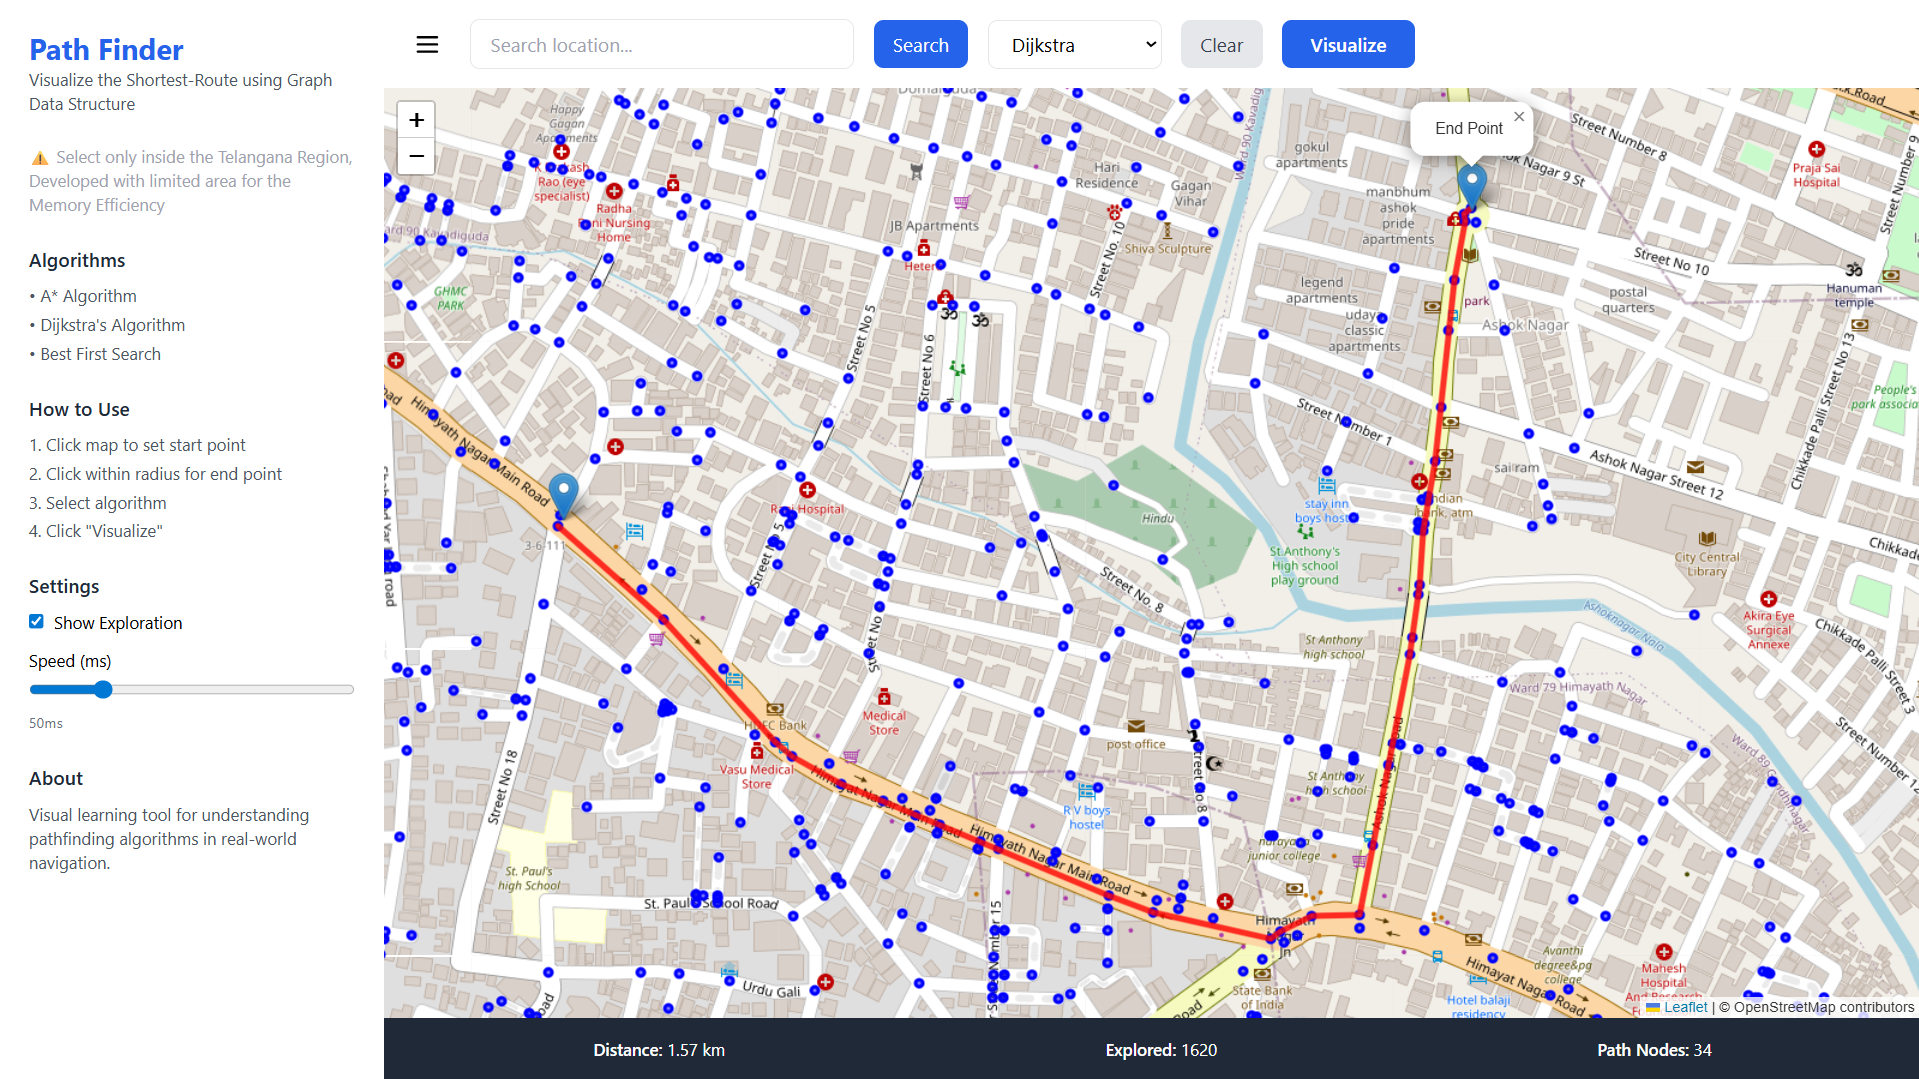
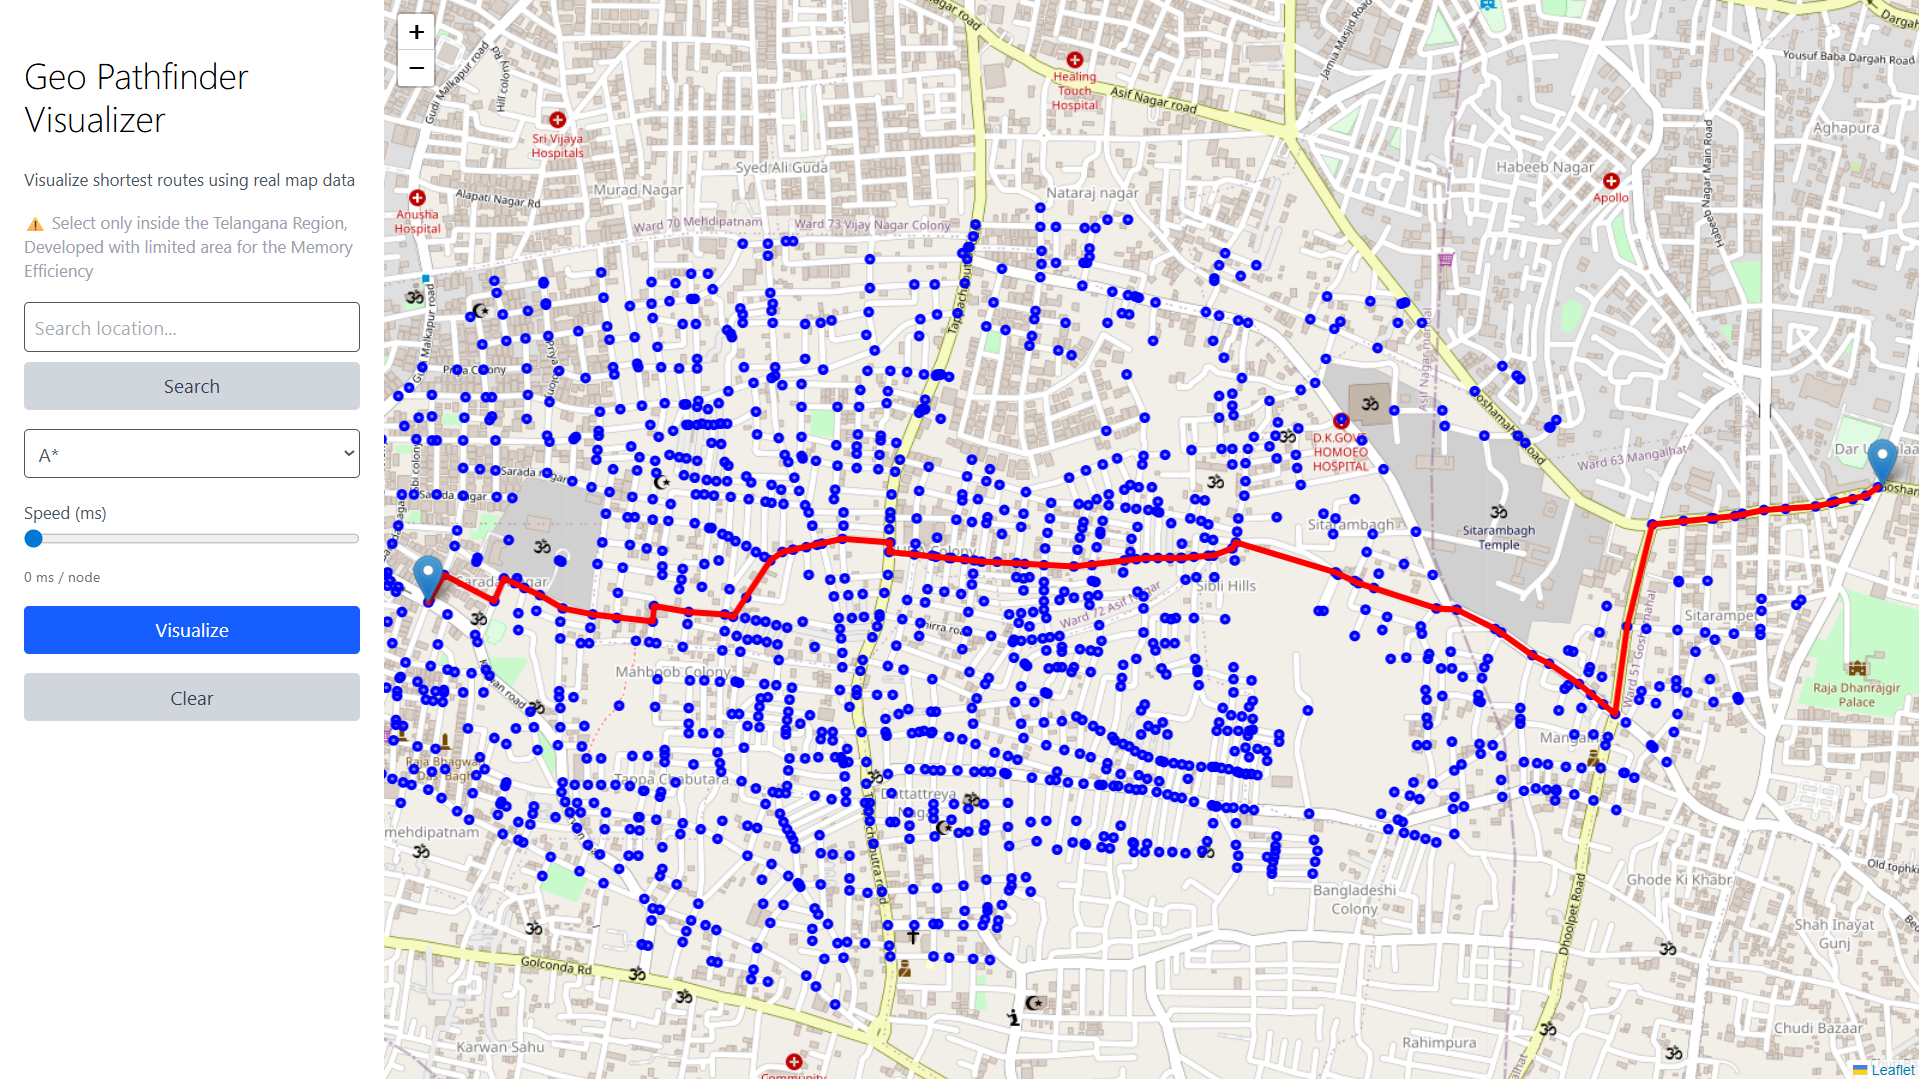
Deployed AWS

diff --git a/README.md b/README.md
@@ -1,82 +1,192 @@
 # Geographic PathFinding Visualizer Documentation
+[Live Link](https://geo-pathfinder-frontend.vercel.app/)
 ### Project Overview
-It is an educational application that visualizes pathfinding algorithms on real-world maps. It allows users to see how different algorithms (Best First Search, A*, Dijkstra) explore nodes and find optimal paths between two points.
+**Geo PathFinder** is a full-stack, real-time geographic pathfinding platform that visualizes classical graph algorithms on real-world maps and enables **live collaboration between users inside rooms**.
 
 ## Screenshots
 - Using **Dijkstra** Algorithm
+  ![img_2.png](img_2.png)
+
+
+- Using **A-Star** Algorithm
   ![img_1.png](img_1.png)
 
 
-- Using **Best First Search** Algorithm
-  ![img_2.png](img_2.png)
+Users can:
 
-  
-#### Tech Stack:
-- **Backend:** Java 17, Spring Boot 3.x
-- **Frontend:** HTML5, JavaScript, Leaflet.js, Tailwind CSS
-- **Map Data:** OpenStreetMap (OSM)
+* Visualize **A***, **Dijkstra**, and **Best-First Search** algorithms on OpenStreetMap data
+* Create and join rooms
+* Share paths and locations **in real time**
+* Scale real-time events using **Apache Kafka**
+* Chat and collaborate using **WebSockets**
 
-#### Prerequisites
-**Backend Requirements**
-- Java 17 or higher
-- Maven 3.6+
-- Internet connection (for OSM data)
+The project is designed with **production-grade architecture**, focusing on performance, scalability, and clean system design.
 
-**Frontend Requirements**
-- Modern web browser (Chrome, Firefox, Safari, Edge)
-- Internet connection (for map tiles)
+---
 
-### Installation
-1. Clone or Create Project Directory
-    ```angular2html
-       git clone https://github.com/siddharthramagiri/pathfinder.git
-       cd pathfinder-main
-    ```
-2. Setup
-    ```angular2html
-    directory/
-    ├── data/
-    │   └── telangana-latest.osm.pbf
-    ├── graph-cache/ (cache of Map data to reduce computation)
-    ├── src/
-    │   └── main/
-    │       ├── java/com/map/pathfinder/
-    │       │   ├── PathfinderApplication.java
-    │       │   ├── config/
-    │       │   │   └── CorsConfig.java
-    │       │   ├── controller/
-    │       │   │   └── PathfindingController.java
-    │       │   ├── service/
-    │       │   │   └── PathfindingService.java
-    │       │   ├── algorithm/
-    │       │   │   ├── AStarAlgorithm.java
-    │       │   │   ├── DijkstraAlgorithm.java
-    │       │   │   ├── BestFirstSearchAlgorithm.java
-    │       │   │   └── PathResult.java
-    │       │   ├── model/
-    │       │   │   ├── Graph.java
-    │       │   │   ├── Node.java
-    │       │   │   └── Edge.java
-    │       │   └── dto/
-    │       │       ├── PathRequest.java
-    │       │       ├── PathResponse.java
-    │       │       └── Coordinate.java
-    │       └── resources/
-    │           └── application.properties
-    │           └── static/
-    │               └── index.html (Frontend File)
-    │
-    └── pom.xml
-    ```
 
-3. Start Application
-    ```angular2html
-    mvn clean install
-    mvn spring-boot:run
-    ```
-   
-4. Open Link
-    ```
-       http://localhost:8080/index.html
-    ```
-   
+### Production Ready
+
+* Spring Boot 3 + Java 17
+* Next.js frontend
+* Postgres SQL Database to manage rooms 
+* Deployed on **AWS EC2**
+
+---
+
+---
+
+## Tech Stack
+
+### Backend
+
+* **Java 17**
+* **Spring Boot 3.x**
+* **Spring WebSocket**
+* **Apache Kafka**
+* **GraphHopper (OSM data)**
+* **Docker**
+
+### Frontend
+
+* **Next.js (App Router)**
+* **TypeScript**
+* **Leaflet.js**
+* **Tailwind CSS**
+
+### Infrastructure
+
+* **AWS EC2**
+* **Docker**
+* **Encrypt (HTTPS)**
+
+---
+
+## Project Structure
+
+```
+project-root/
+├── data/
+│   └── telangana-latest.osm.pbf
+│
+├── graph-cache/
+│   └── (cached map/graph data)
+│
+├── src/
+│   └── main/
+│       ├── java/
+│       │   └── com/map/pathfinder/
+│       │       ├── PathfinderApplication.java
+│       │       │
+│       │       ├── algorithm/
+│       │       │   ├── AStarAlgorithm.java
+│       │       │   ├── BestFirstSearchAlgorithm.java
+│       │       │   └── DijkstraAlgorithm.java
+│       │       │
+│       │       ├── config/
+│       │       │   └── WebSocketConfig.java
+│       │       │
+│       │       ├── controller/
+│       │       │   ├── ChatController.java
+│       │       │   ├── PathfindingController.java
+│       │       │   ├── PublicController.java
+│       │       │   └── RoomController.java
+│       │       │
+│       │       ├── dto/
+│       │       │   ├── Coordinate.java
+│       │       │   ├── PathRequest.java
+│       │       │   ├── PathResponse.java
+│       │       │   ├── PathResult.java
+│       │       │   └── roomDto/
+│       │       │       ├── CreateRoomRequest.java
+│       │       │       └── JoinRoomRequest.java
+│       │       │
+│       │       ├── model/
+│       │       │   ├── ChatMessage.java
+│       │       │   ├── Edge.java
+│       │       │   ├── Graph.java
+│       │       │   ├── Location.java
+│       │       │   ├── Node.java
+│       │       │   └── Room.java
+│       │       │
+│       │       ├── repository/
+│       │       │   ├── ChatMessageRepository.java
+│       │       │   ├── LocationRepository.java
+│       │       │   └── RoomRepository.java
+│       │       │
+│       │       └── service/
+│       │           ├── ChatService.java
+│       │           ├── KafkaConsumerService.java
+│       │           ├── KafkaProducerService.java
+│       │           ├── PathfindingService.java
+│       │           └── RoomService.java
+│       │
+│       └── resources/
+│           └── application.properties
+│
+├── pom.xml
+└── README.md
+
+```
+
+---
+
+## 🔧 Prerequisites
+
+### Backend
+
+* Java 17+
+* Maven 3.8+
+* Docker
+* OSM `.pbf` map file
+
+### Frontend
+
+* Next.js 18+
+* npm / pnpm
+
+---
+
+## Backend Setup
+
+### Clone Repository
+
+```bash
+git clone https://github.com/siddharthramagiri/geo-pathfinder.git
+cd geo-pathfinder/backend
+```
+
+### Environment Variables
+
+```env
+DATASOURCE_URL={DATABASE_URL}
+DATASOURCE_USERNAME={DATABASE_USERNAME}
+DATASOURCE_PASSWORD={DATABASE_PASSWORD};
+OSM_FILE_PATH=/data/telangana.osm.pbf
+GRAPH_CACHE_PATH=/graph-cache
+```
+
+### Run Backend
+
+```bash
+mvn clean package -DskipTests
+java -jar target/app.jar
+```
+
+Backend runs on:
+
+```
+http://localhost:8080
+```
+
+---
+
+## Learning Outcomes
+
+* Implemented graph algorithms on real geographic data
+* Designed scalable real-time systems using **Kafka**
+* Built WebSocket-based collaboration features
+* Deployed and secured applications with HTTPS on **AWS EC2 Instance**
+* Optimized memory-heavy graph processing
+* Designed production-ready backend/frontend separation
+
